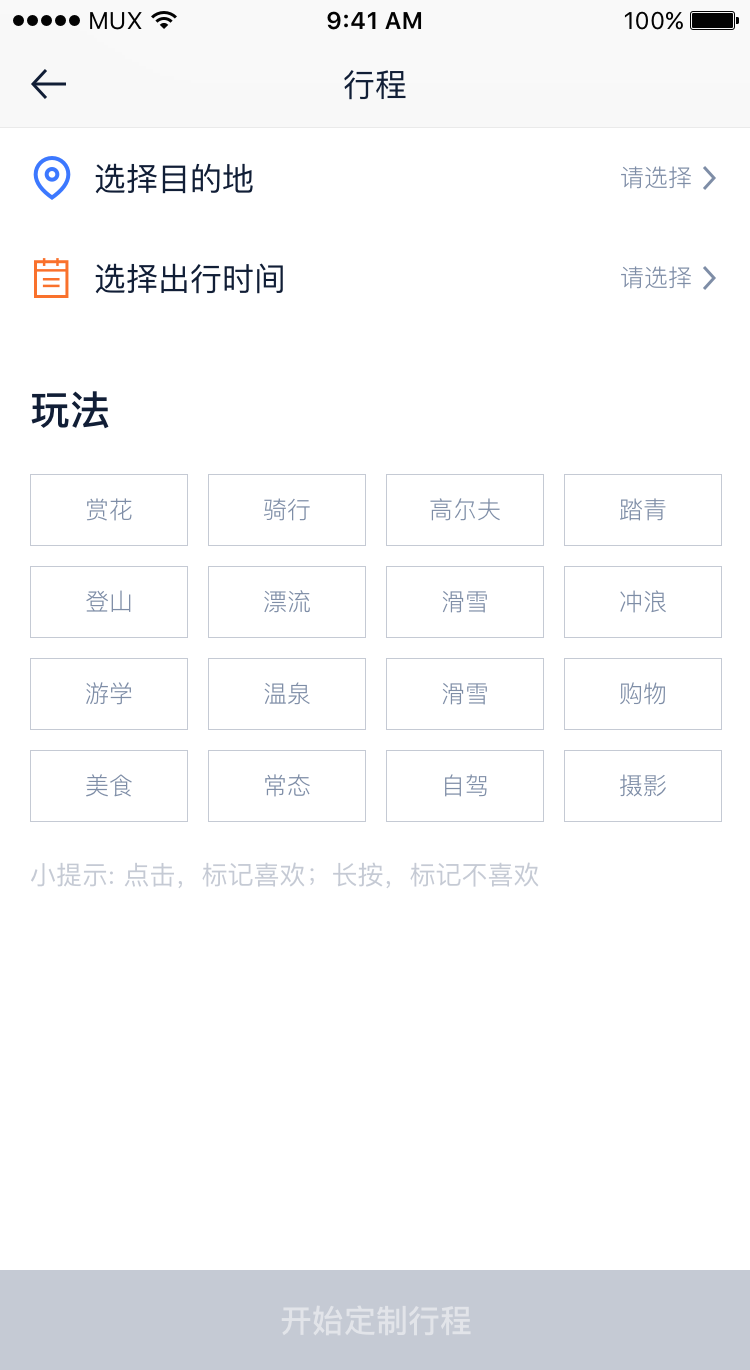
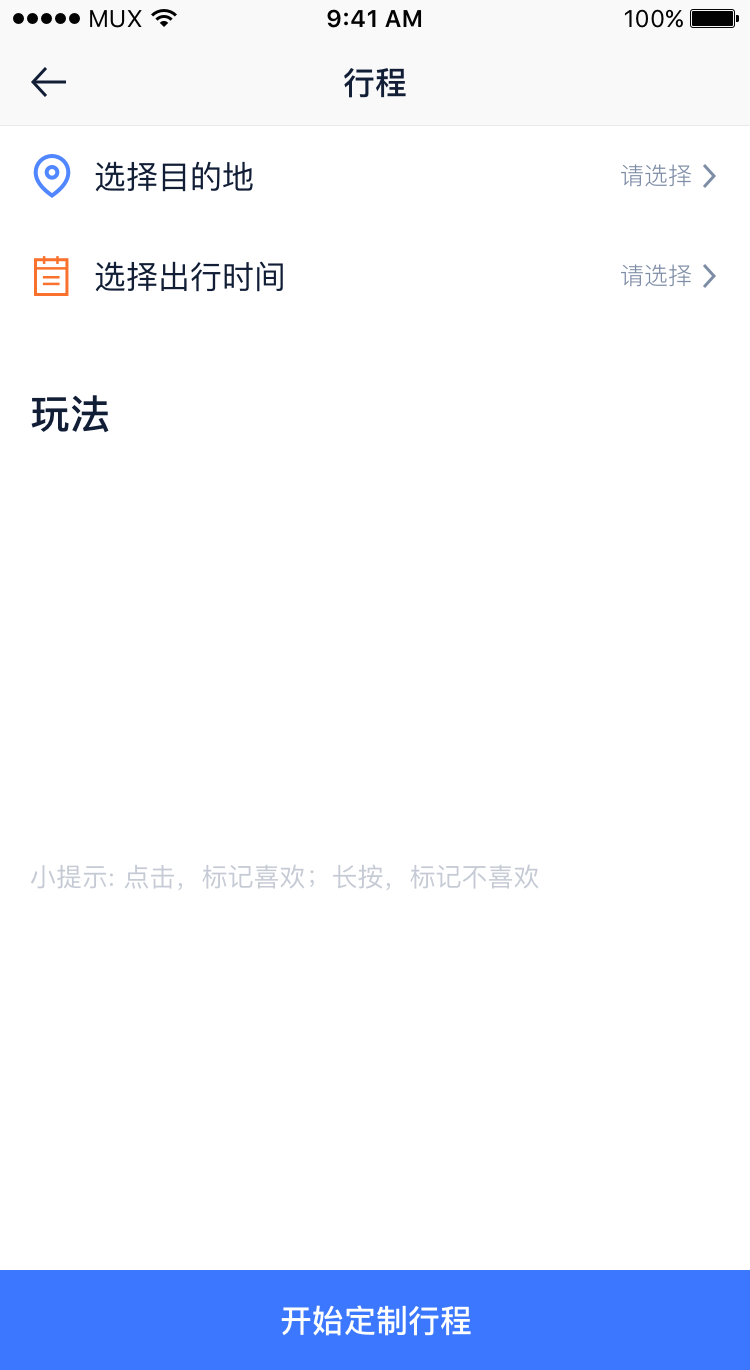
优化

diff --git a/css/index.css b/css/index.css
@@ -422,14 +422,14 @@ body {
       height: 0.5333333333rem; }
     body .scheduling .destation-selected, body .scheduling-end .destation-selected {
       position: absolute;
-      top: 1.76rem;
-      left: 0;
-      width: 100%; }
+      top: 1.6266666667rem;
+      right: 0;
+      height: 1.3333333333rem; }
     body .scheduling .time-selected, body .scheduling-end .time-selected {
       position: absolute;
-      top: 3.1466666667rem;
-      left: 0;
-      width: 100%; }
+      top: 2.9333333333rem;
+      right: 0;
+      height: 1.3333333333rem; }
     body .scheduling .time-btn, body .scheduling-end .time-btn {
       position: absolute;
       top: 3.3066666667rem;

diff --git a/css/index.scss b/css/index.scss
@@ -62,15 +62,15 @@ body{
     }
     .destation-selected {
       position: absolute;
-      top: torem(66);
-      left: 0;
-      width: 100%;
+      top: torem(61);
+      right: 0;
+      height: torem(50);
     }
     .time-selected {
       position: absolute;
-      top: torem(118);
-      left: 0;
-      width: 100%;
+      top: torem(110);
+      right: 0;
+      height: torem(50);
     }
     .time-btn{
       position: absolute;
